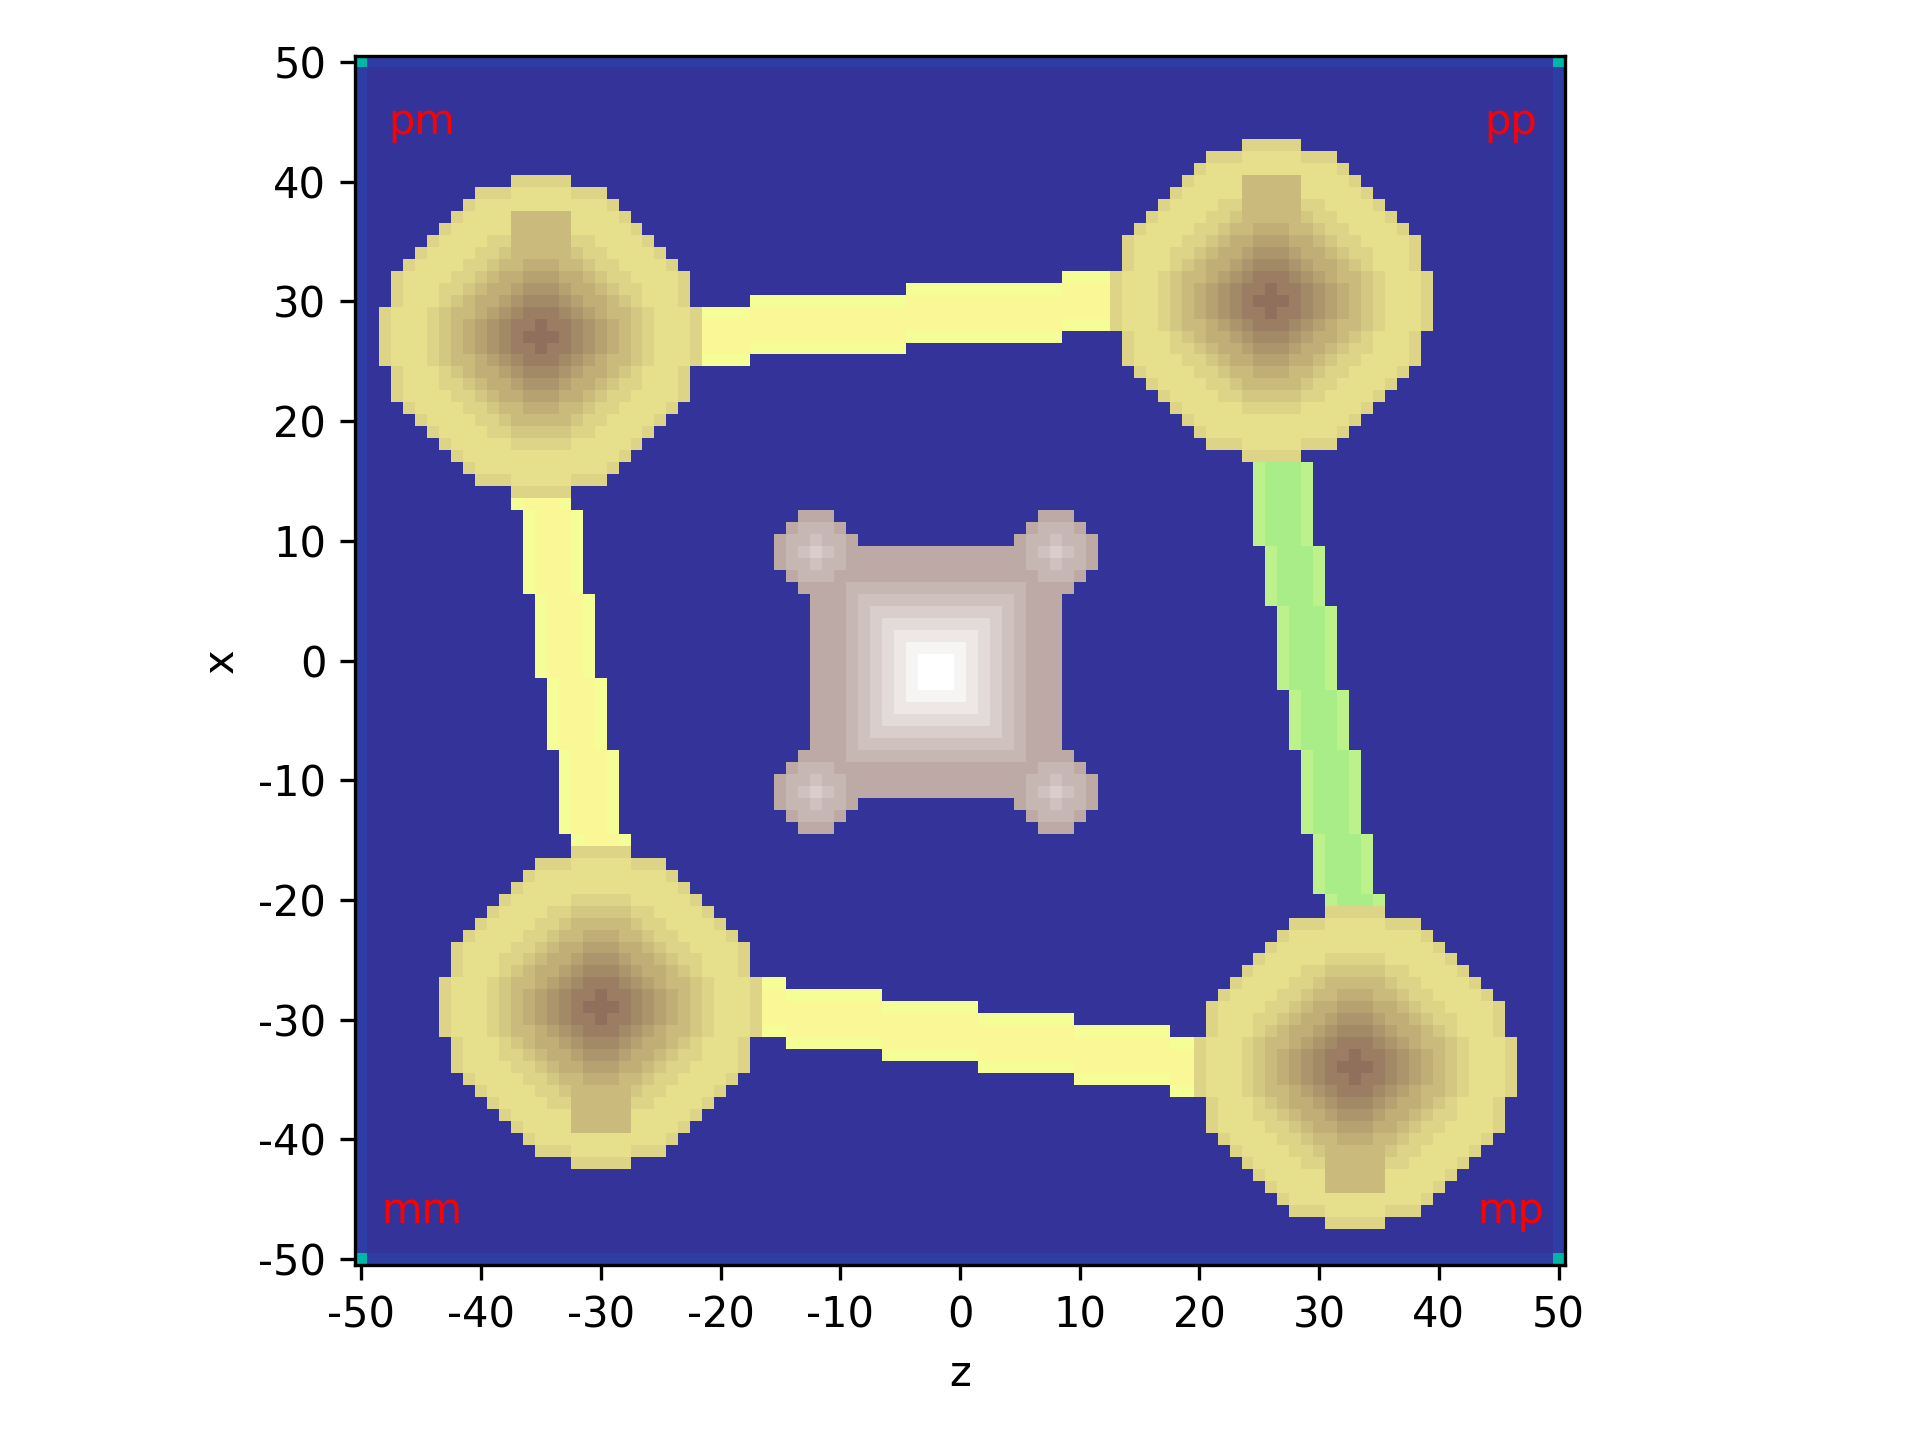
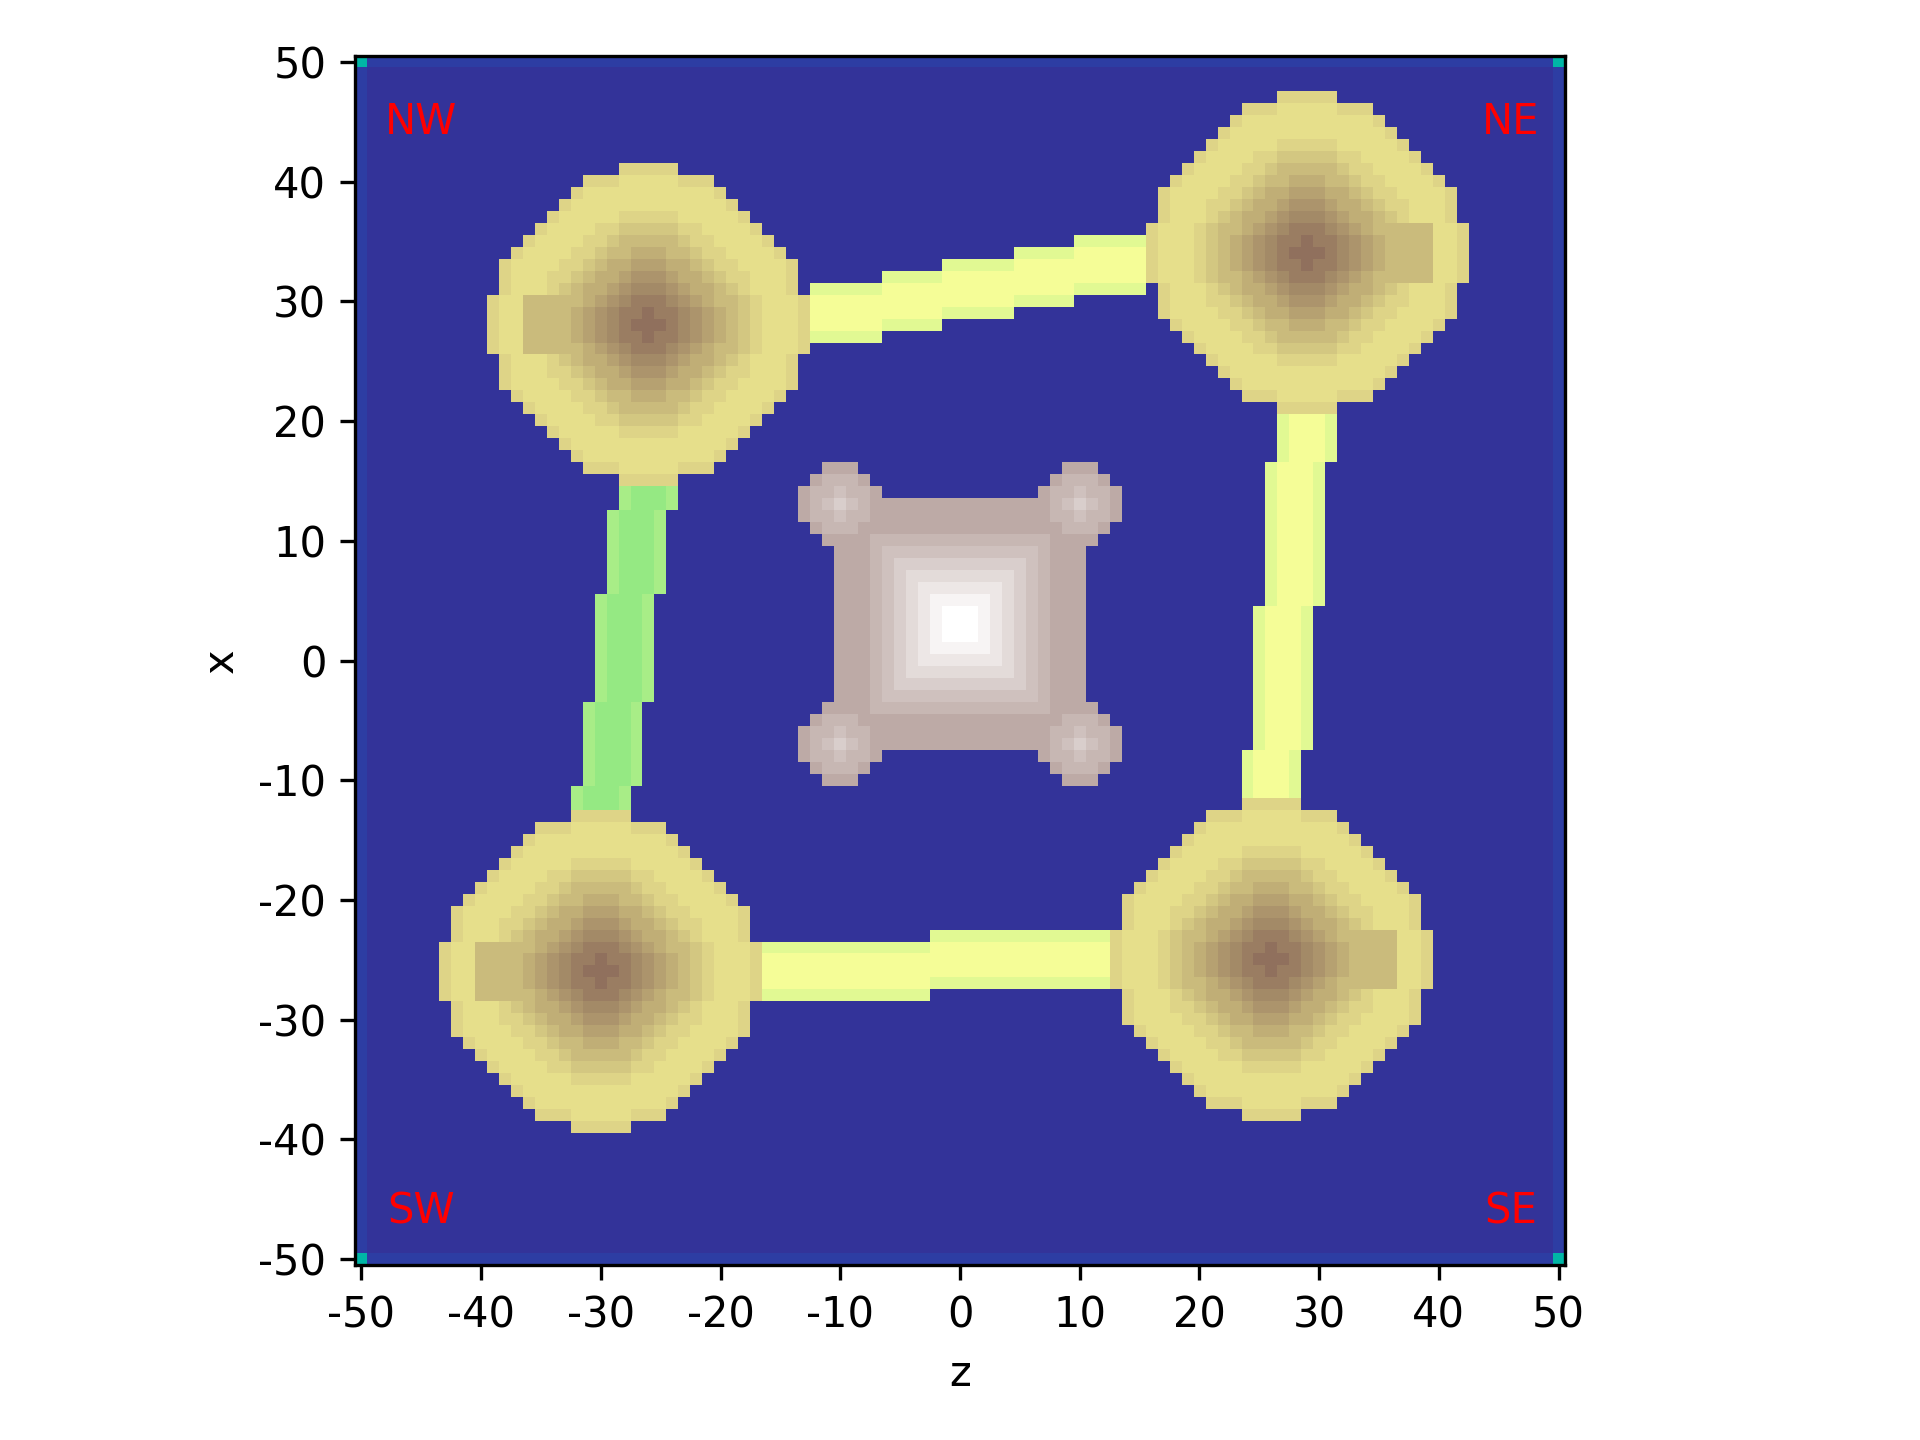
Fix cardinal directions

diff --git a/src/app/structs/tower.py b/src/app/structs/tower.py
@@ -210,14 +210,15 @@ class TowerRoofAccess:
         
         editor.placeBlock(
             self.ladderGenerator,
-            Block('ladder', {'facing': self.facing})
+            Block('ladder', {'facing': self.notFacing})
         )
 
-        self.stairM.setFacing(self.facing)
+        # stairs sets 1 and 2 are placed in the opposite direction of self.facing
+        self.stairM.setFacing(self.notFacing)
         for stairGenerator in [self.stairGenerator1, self.stairGenerator2]:
             editor.placeBlock(stairGenerator, self.stairM)
-        # stairs set 3 is placed in the opposite direction of self.facing
-        self.stairM.setFacing({'east': 'west', 'west': 'east'}[self.facing])
+        # stairs set 3 is placed in the correct direction of self.facing
+        self.stairM.setFacing(self.facing)
         editor.placeBlock(self.stairGenerator3, self.stairM)
         
         editor.placeBlock(self.gateGenerator, self.gateM)
@@ -264,11 +265,15 @@ class TowerRoofAccess:
 
     @property
     def facing(self) -> str:
-        return {'mm': 'east', 'mp': 'east', 'pp': 'west', 'pm': 'west'}[self.district]
+        return {'w': 'west', 'e': 'east'}[self.district[1]]
+
+    @property
+    def notFacing(self) -> str:
+        return {'west': 'east', 'east': 'west'}[self.facing]
 
     @property
     def xSign(self) -> int:
-        return {'east': +1, 'west': -1}[self.facing]
+        return {'east': -1, 'west': +1}[self.facing]
 
 
 class Tower:
@@ -282,7 +287,7 @@ class Tower:
             roofAccess: TowerRoofAccess
         ) -> None:
         """
-        district: one of 'mm', 'mp', 'pp', 'pm' (see README.md)
+        district: one of 'nw', 'sw', 'se', 'ne'
         base: TowerBase instance
         room: TowerRoom instance
         roof: TowerRoof instance
@@ -290,7 +295,7 @@ class Tower:
 
         ! Note: tower.o(rigin) is set to room.o(rigin) !
         """
-        assert district in ['mm', 'mp', 'pp', 'pm'], f'Invalid district: {district}'
+        assert district in ['nw', 'sw', 'se', 'ne'], f'Invalid district: {district}'
         self.district = district
 
         self.base = base
@@ -314,20 +319,20 @@ class Tower:
     def entranceDirections(self) -> list[str]:
         """ Each tower has a unique set of 2 entrance directions, depending on its district. """
         return {
-            'mm': ['pz', 'px'],
-            'mp': ['mz', 'px'],
-            'pp': ['mz', 'mx'],
-            'pm': ['pz', 'mx']
+            'nw': ['south', 'east'],
+            'sw': ['north', 'east'],
+            'se': ['north', 'west'],
+            'ne': ['south', 'west']
         }[self.district]
 
     def _addEntrances(self, editor: Editor) -> None:
         """ Add the correct entrances to the tower. """
-        for direction in ['pz', 'mz', 'px', 'mx']:
+        for direction in ['south', 'north', 'east', 'west']:
             if direction in self.entranceDirections:
                 entrancePos: ivec3 = self._findEntrance(direction)
-                setattr(self, f'entrance{direction.upper()}', entrancePos)
+                setattr(self, f'entrance{direction[0].upper()}', entrancePos)
             else:
-                setattr(self, f'entrance{direction.upper()}', None)
+                setattr(self, f'entrance{direction[0].upper()}', None)
         editor.placeBlock(self.entrancePoints, Air)
         return
 
@@ -348,16 +353,16 @@ class Tower:
         
         r = self.room.radius
 
-        if direction == 'pz':
+        if direction == 'south':
             _placeEntrance(-1, 1, r, r)
             return self.o + ivec3(0, -1, r)
-        elif direction == 'mz':
+        elif direction == 'north':
             _placeEntrance(-1, 1, -r, -r)
             return self.o + ivec3(0, -1, -r)
-        elif direction == 'px':
+        elif direction == 'east':
             _placeEntrance(r, r, -1, 1)
             return self.o + ivec3(r, -1, 0)
-        elif direction == 'mx':
+        elif direction == 'west':
             _placeEntrance(-r, -r, -1, 1)
             return self.o + ivec3(-r, -1, 0)
         else:

diff --git a/src/app/builders.py b/src/app/builders.py
@@ -24,7 +24,11 @@ def buildBounds(editor: Editor, buildRect: Box, y: int) -> None:
     center: ivec3 = addY(buildRect.center, y)
     geometry.placeRectOutline(editor, buildRect, center.y, Concrete('white'))
 
-    # mm, mp, pp, pm
+    # NW, SW, SE, NE
+    # negative x is west
+    # positive x is east
+    # negative z is north
+    # positive z is south
     directions = [(-1, -1), (-1, +1), (+1, +1), (+1, -1)]
     colors = ['blue', 'yellow', 'green', 'red']
 
@@ -44,12 +48,12 @@ def buildTowers(editor: Editor, center: ivec3, dry: bool = False) -> dict[str, T
 
     # create four 2D sectors (10x10) where the center of a tower will be chosen
     bounds = [
-        (-35, -35, -25, -25), # mm
-        (-35, +25, -25, +35), # mp
-        (+25, +25, +35, +35), # pp
-        (+25, -35, +35, -25)  # pm
+        (-35, -35, -25, -25), # NW
+        (-35, +25, -25, +35), # SW
+        (+25, +25, +35, +35), # SE
+        (+25, -35, +35, -25)  # NE
     ]
-    towers = {district: None for district in ['mm', 'mp', 'pp', 'pm']}
+    towers = {district: None for district in ['nw', 'sw', 'se', 'ne']}
     for (minx, minz, maxx, maxz), district in zip(bounds, towers.keys()):
         x = center.x + np.random.randint(minx, maxx)
         z = center.z + np.random.randint(minz, maxz)
@@ -74,7 +78,7 @@ def buildTowers(editor: Editor, center: ivec3, dry: bool = False) -> dict[str, T
             height = 10,
             radius = 13
         )
-        sign = -1 if district in ['mm', 'mp'] else 1
+        sign = -1 if district in ['nw', 'sw'] else 1
         towerRoofAccess = TowerRoofAccess(
             origin = towerRoof.o + sign * X * (towerRoom.radius-1),
             district = district, 
@@ -125,7 +129,7 @@ def buildCastle(editor: Editor, center: ivec3) -> Castle:
         origin = center + Y * (castleOutline.wallHeight+1),
         corners = castleOutline.corners,
         roofMaterial = TintedGlass,
-        coneColors = {'mm': 'blue', 'mp': 'yellow', 'pp': 'green', 'pm': 'red'},
+        coneColors = {'nw': 'blue', 'sw': 'yellow', 'se': 'green', 'ne': 'red'},
         height = 8,
         coneHeight = 3
     )
@@ -168,8 +172,8 @@ def buildBridges(editor: Editor, towers: dict[str, Tower]) -> list[Bridge]:
     baseStairPalette = BaseStairPalette()
     noRoof = np.random.randint(0, 4)
 
-    mm, mp, pp, pm = towers.values()
-    for i, towerSet in enumerate([(mm, mp), (mm, pm), (mp, pp), (pm, pp)]):
+    nw, sw, se, ne = towers.values()
+    for i, towerSet in enumerate([(nw, sw), (nw, ne), (sw, se), (ne, se)]):
         bridge = Bridge(
             towers = towerSet,
             baseMaterial = basePalette,

diff --git a/src/app/structs/bridge.py b/src/app/structs/bridge.py
@@ -42,8 +42,8 @@ class Bridge:
         editor.placeBlock(self.basePoints, self.baseM)
         for i in range(4):
             self.stairM.setFacing(self.stairsDirections[i%2])
-            if i == 2:
-                # flip the stairs
+            self.stairM.setHalf('bottom')
+            if i >= 2:
                 self.stairM.setHalf('top')
             editor.placeBlock(self.stairsPoints[i], self.stairM)
         return
@@ -53,7 +53,7 @@ class Bridge:
         self.basePoints = []
         self.stairsPoints = [[], [], [], []]
         walkRange = range(self.from_.x+1, self.to_.x) if self.direction == 'x' else range(self.from_.z+1, self.to_.z)
-        y = self.from_.y + 1
+        y = self.from_.y
 
         def p(i: int, j: int, k: int) -> ivec3:
             """ helper method for switching between x and z directions """
@@ -112,9 +112,9 @@ class Bridge:
     @property
     def direction(self) -> str:
         """ The direction of the bridge, either 'x' or 'z'. """
-        if self.towers[0].district[0] == self.towers[1].district[0]:
+        if self.towers[0].district[1] == self.towers[1].district[1]:
             return 'z'
-        elif self.towers[0].district[1] == self.towers[1].district[1]:
+        elif self.towers[0].district[0] == self.towers[1].district[0]:
             return 'x'
         else:
             raise ValueError(
@@ -126,9 +126,9 @@ class Bridge:
         """ Set the two towers in correct order. """
         if self.direction == 'x':
             self.T1, self.T2 = sorted(self.towers, key=lambda t: t.o.x)
-            self.from_, self.to_ = self.T1.entrancePX, self.T2.entranceMX
+            self.from_, self.to_ = self.T1.entranceE, self.T2.entranceW
         elif self.direction == 'z':
             self.T1, self.T2 = sorted(self.towers, key=lambda t: t.o.z)
-            self.from_, self.to_ = self.T1.entrancePZ, self.T2.entranceMZ
+            self.from_, self.to_ = self.T1.entranceS, self.T2.entranceN
         else:
             raise ValueError(f'Invalid direction: {self.direction}')

diff --git a/src/app/helper.py b/src/app/helper.py
@@ -54,8 +54,8 @@ def createOverview(editor: Editor, buildRect: Rect) -> None:
 
     worldSlice: WorldSlice = editor.loadWorldSlice(buildRect)
     heightMap: np.ndarray = worldSlice.heightmaps['MOTION_BLOCKING_NO_LEAVES']
-    # flip horizontally
-    heightMap = np.flip(heightMap, axis=0)
+    # transpose to get the correct orientation
+    heightMap = heightMap.T
     w, h = heightMap.shape
 
     fig, ax = plt.subplots()
@@ -65,7 +65,7 @@ def createOverview(editor: Editor, buildRect: Rect) -> None:
     ax.set_xlabel('z')
     ax.set_ylabel('x')
 
-    for label, (x, y) in zip(['pm', 'mm', 'pp', 'mp'], [(5, 5), (5, w-5), (h-5, 5), (h-5, w-5)]):
+    for label, (x, y) in zip(['NW', 'SW', 'NE', 'SE'], [(5, 5), (5, w-5), (h-5, 5), (h-5, w-5)]):
         ax.text(x, y, label, color='red', ha='center', va='center')
 
     fig.tight_layout()

diff --git a/src/app/structs/castle.py b/src/app/structs/castle.py
@@ -107,10 +107,10 @@ class CastleOutline:
     def corners(self) -> dict[str, ivec3]:
         """ Get the corners' coordinates. """
         return {
-            'mm': self.o + ivec3(-self.width, 0, -self.width),
-            'mp': self.o + ivec3(-self.width, 0, +self.width),
-            'pp': self.o + ivec3(+self.width, 0, +self.width),
-            'pm': self.o + ivec3(+self.width, 0, -self.width)
+            'nw': self.o + ivec3(-self.width, 0, -self.width),
+            'sw': self.o + ivec3(-self.width, 0, +self.width),
+            'se': self.o + ivec3(+self.width, 0, +self.width),
+            'ne': self.o + ivec3(+self.width, 0, -self.width)
         }
 
 
